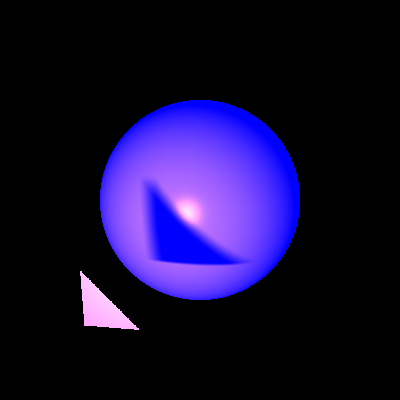
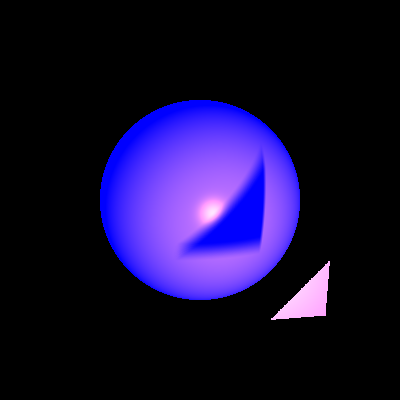
.

Changed region(s): [[0.24, 0.27, 0.75, 0.75], [0.66, 0.66, 0.84, 0.81], [0.18, 0.66, 0.36, 0.84]]

diff --git a/unitTests/renderer/Minip1.java b/unitTests/renderer/Minip1.java
@@ -313,12 +313,13 @@ public class Minip1 {
                 .writeToImage();
     }
 }
-*/
+
 
 
 package renderer;
 
 import geometries.*;
+import lighting.PointLight;
 import lighting.SpotLight;
 import org.junit.jupiter.api.Test;
 import primitives.*;
@@ -337,21 +338,47 @@ public class Minip1 {
         Material roofMaterial = new Material().setKd(0.7).setKs(0.1).setShininess(10);
         Material doorMaterial = new Material().setKd(0.3).setKs(0.2).setShininess(20);
 
-        // House base (as a box made of 4 walls)
-        Geometry wall1 = new Polygon(new Point(-50, -50, -20), new Point(50, -50, -20), new Point(50, -50, 0), new Point(-50, -50, 0))
+
+        Geometry wall1 = new Polygon(
+                new Point(-50, 0, 600), // Bottom-left
+                new Point(50, 0, 600),  // Bottom-right
+                new Point(50, 100, 600), // Top-right
+                new Point(-50, 100, 600) // Top-left
+        )
                 .setEmission(new Color(169, 169, 169)) // Light gray
                 .setMaterial(wallMaterial);
-        Geometry wall2 = new Polygon(new Point(-50, -50, 0), new Point(-50, 50, 0), new Point(-50, 50, -20), new Point(-50, -50, -20))
-                .setEmission(new Color(169, 169, 169))
-                .setMaterial(wallMaterial);
-        Geometry wall3 = new Polygon(new Point(-50, 50, 0), new Point(50, 50, 0), new Point(50, 50, -20), new Point(-50, 50, -20))
-                .setEmission(new Color(169, 169, 169))
-                .setMaterial(wallMaterial);
-        Geometry wall4 = new Polygon(new Point(50, -50, 0), new Point(50, 50, 0), new Point(50, 50, -20), new Point(50, -50, -20))
+
+        Geometry wall2 = new Polygon(
+                new Point(50, 0, 300),  // Bottom-left
+                new Point(50, 100, 300), // Top-left
+                new Point(50, 100, 600), // Top-right
+                new Point(50, 0, 600)   // Bottom-right
+        )
                 .setEmission(new Color(169, 169, 169))
                 .setMaterial(wallMaterial);
 
-        // Roof (as two triangles)
+
+        Geometry wall3 = new Polygon(
+                new Point(-50, 0, 300),  // Bottom-left
+                new Point(50, 0, 300),   // Bottom-right
+                new Point(50, 100, 300), // Top-right
+                new Point(-50, 100, 300) // Top-left
+        )
+                .setEmission(new Color(169, 169, 169))
+                .setMaterial(wallMaterial);
+
+        Geometry wall4 = new Polygon(
+                new Point(-50, 0, 300),  // Bottom-left
+                new Point(-50, 100, 300), // Top-left
+                new Point(-50, 100, 600), // Top-right
+                new Point(-50, 0, 600)   // Bottom-right
+        )
+                .setEmission(new Color(169, 169, 169))
+                .setMaterial(wallMaterial);
+
+
+        Sphere sp = new Sphere(20, new Point(0,0,400));
+/*        // Roof (as two triangles)
         Geometry roof1 = new Triangle(new Point(-55, -50, 0), new Point(55, -50, 0), new Point(0, -50, 30))
                 .setEmission(new Color(139, 69, 19)) // Brown
                 .setMaterial(roofMaterial);
@@ -363,29 +390,265 @@ public class Minip1 {
         Geometry door = new Polygon(new Point(-10, -50, -20), new Point(10, -50, -20), new Point(10, -50, -5), new Point(-10, -50, -5))
                 .setEmission(new Color(160, 82, 45)) // Sienna
                 .setMaterial(doorMaterial);
-
+*/
         // Add geometries to scene
-        houseScene.geometries.add(wall1, wall2, wall3, wall4, roof1, roof2, door);
+       // houseScene.geometries.add(wall1, wall2, wall3, wall4, roof1, roof2, door);
 
-        // Light sources
+/*
+        houseScene.geometries.add(wall1, wall2, wall3, wall4,sp);
         houseScene.lights.add(new SpotLight(new Color(WHITE), new Point(100, 100, 100), new Vector(-1, -1, -1), 9)
                 .setKl(0.0004).setKq(0.0002));
+        houseScene.lights.add(new PointLight(new Color(WHITE), new Point(0, 100, 500))
+                .setKl(0.0001).setKq(0.00005));
+        houseScene.setBackground(new Color(WHITE));
 
         // Camera settings - New position and direction to ensure all geometries are visible
         Camera.Builder camera = Camera.getBuilder()
-                .setDirection(new Vector(0, 0, 1), // vUp (pointing upward in the Z direction)
-                        new Vector(-1, -1, -1).normalize()) // vTo (pointing towards the house)
-                .setLocation(new Point(150, 150, 100)) // New camera position
-                .setVpDistance(500)
-                .setVpSize(300, 300)
+                .setDirection(
+                        new Vector(0, 1, 0),                 // vUp (Z direction, pointing straight up)
+                        new Vector(0, 0, 1)     // vTo (pointing straight towards the house along the Y-axis)
+                )
+                .setLocation(new Point(0, 50, 200))  // Camera position, in front of and above the house
+                .setVpDistance(40)
+                .setVpSize(200, 200)
                 .setRayTracer(new SimpleRayTracer(houseScene));
 
-        // Image writer and ray tracer
-        ImageWriter imageWriter = new ImageWriter("house_scene_ortho_vectors", 500, 500);
-        camera.setImageWriter(imageWriter);
+//        // Adjust the camera position to ensure the geometries are within the view
+//        camera.setLocation(new Point(0, -200, 200))  // Camera position closer to the scene
+//                .setVpDistance(100) // Reduce the distance for a closer view
+//                .setVpSize(200, 200); // Adjust the viewport size if necessary
 
-        camera.build()
+// Add more light sources or increase the current light's intensity
+
+
+        // Image writer and ray tracer
+        ImageWriter imageWriter = new ImageWriter("house_scene", 500, 500);
+        camera.setImageWriter(imageWriter)
+                .build()
                 .renderImage()
                 .writeToImage();
+
+
+    }
+
+}
+
+package renderer;
+import org.junit.jupiter.api.Test;
+
+import static java.awt.Color.*;
+
+import renderer.ImageWriter;
+import lighting.*;
+import geometries.*;
+import primitives.*;
+import renderer.*;
+import scene.Scene;
+
+import java.io.CharArrayWriter;
+
+public class Minip1 {
+    // private Scene scene = new Scene.SceneBuilder("Test scene").build();
+    @Test
+    public void ourPicture(){
+        Scene scene = new Scene("Test scene")//
+                .setBackground(new Color(51,0,0));
+
+        Point A=new Point(-165,170,-300);
+        Point B=new Point(-165,140,-300);
+        Point C=new Point(-135,140,-300);
+        Point D=new Point(-135,170,-300);
+        Point E=new Point(-165,170,-200);
+        Point F=new Point(-165,140,-200);
+        Point G=new Point(-135,140,-200);
+        Point H=new Point(-135,170,-200);
+        Point J=new Point(-105,140,-300);
+        Point K=new Point(-105,170,-300);
+        Point L=new Point(-105,140,-200);
+        Point M=new Point(-105,170,-200);
+        Point N=new Point(-165,110,-300);
+        Point O=new Point(-135,110,-300);
+        Point P=new Point(-165,110,-200);
+        Point Q=new Point(-135,110,-200);
+        Point R=new Point(-150,90,-250);
+        Point S=new Point(-90,155,-250);
+
+        //Scene scene = new Scene.SceneBuilder("Test scene").build();//
+//        Camera camera = new Camera(new Point(0, 0, 1000), new Vector(0,0,-1), new Vector(1,0,0))
+//                .setVPDistance(600).setVPSize(200, 200);
+
+        Camera.Builder camera = Camera.getBuilder().setLocation(new Point(0,0,1000))
+                .setDirection(new Vector(1,0,0), new Vector(0,0,-1))
+                .setVpDistance(600).setVpSize(200,200);
+        scene.geometries.add(
+//                new Polygon(A,B,C,D)
+//                        .setEmission(new Color(200,255,0))
+//                        .setMaterial(new Material().setKd(0.5).setKs(0.1).setKt(0).setKr(0).setShininess(20)),
+//                new Polygon(E,F,G,H)
+//                        .setEmission(new Color(200,255,0))
+//                        .setMaterial(new Material().setKd(0.5).setKs(0.1).setKt(0).setKr(0).setShininess(20)),
+//                new Polygon(A,D,H,E)
+//                        .setEmission(new Color(200,255,0))
+//                        .setMaterial(new Material().setKd(0.5).setKs(0.1).setKt(0).setKr(0).setShininess(20)),
+//                new Polygon(G,H,D,C)
+//                        .setEmission(new Color(200,255,0))
+//                        .setMaterial(new Material().setKd(0.5).setKs(0.1).setKt(0).setKr(0).setShininess(20)),
+//                new Polygon(G,F,B,C)
+//                        .setEmission(new Color(200,255,0))
+//                        .setMaterial(new Material().setKd(0.5).setKs(0.1).setKt(0).setKr(0).setShininess(20)),
+//                new Polygon(E,F,B,A)
+//                        .setEmission(new Color(200,255,0))
+//                        .setMaterial(new Material().setKd(0.5).setKs(1).setKt(0).setShininess(20)),
+//                new Polygon(L,M,K,J)
+//                        .setEmission(new Color(51,204,255))
+//                        .setMaterial(new Material().setKd(0.5).setKs(1).setKt(0.5).setShininess(20)),
+//                new Polygon(G,C,J,L)
+//                        .setEmission(new Color(51,204,255))
+//                        .setMaterial(new Material().setKd(0.5).setKs(1).setKt(0.5).setShininess(20)),
+//                new Polygon(M,H,D,K)
+//                        .setEmission(new Color(51,204,255))
+//                        .setMaterial(new Material().setKd(0.5).setKs(1).setKt(0.5).setShininess(20)),
+//                new Polygon(G,H,M,L)
+//                        .setEmission(new Color(51,204,255))
+//                        .setMaterial(new Material().setKd(0.5).setKs(1).setKt(0.5).setShininess(20)),
+//                new Polygon(C,D,K,J)
+//                        .setEmission(new Color(51,204,255))
+//                        .setMaterial(new Material().setKd(0.5).setKs(1).setKt(0.5).setShininess(20)),
+//                new Polygon(N,O,Q,P)
+//                        .setEmission(new Color(51,204,255))
+//                        .setMaterial(new Material().setKd(0.5).setKs(1).setKt(0.5).setShininess(20)),
+//                new Polygon(Q,G,C,O)
+//                        .setEmission(new Color(51,204,255))
+//                        .setMaterial(new Material().setKd(0.5).setKs(1).setKt(0.5).setShininess(20)),
+//                new Polygon(P,F,B,N)
+//                        .setEmission(new Color(51,204,255))
+//                        .setMaterial(new Material().setKd(0.5).setKs(1).setKt(0.5).setShininess(20)),
+//                new Polygon(N,B,C,O)
+//                        .setEmission(new Color(51,204,255))
+//                        .setMaterial(new Material().setKd(0.5).setKs(1).setKt(0.5).setShininess(20)),
+//                new Polygon(P,F,G,Q)
+//                        .setEmission(new Color(51,204,255))
+//                        .setMaterial(new Material().setKd(0.5).setKs(1).setKt(0.5).setShininess(20)),
+//                new Triangle(Q,O,R)
+//                        .setEmission(new Color(51,204,255))
+//                        .setMaterial(new Material().setKd(0.5).setKs(1).setKt(0.5).setShininess(20)),
+//                new Triangle(N,O,R)
+//                        .setEmission(new Color(51,204,255))
+//                        .setMaterial(new Material().setKd(0.5).setKs(1).setKt(0.5).setShininess(20)),
+//                new Triangle(N,P,R)
+//                        .setEmission(new Color(51,204,255))
+//                        .setMaterial(new Material().setKd(0.5).setKs(1).setKt(0.5).setShininess(20)),
+//                new Triangle(P,Q,R)
+//                        .setEmission(new Color(51,204,255))
+//                        .setMaterial(new Material().setKd(0.5).setKs(1).setKt(0.5).setShininess(20)),
+//                new Triangle(M,L,S)
+//                        .setEmission(new Color(51,204,255))
+//                        .setMaterial(new Material().setKd(0.5).setKs(1).setKt(0.5).setShininess(20)),
+//                new Triangle(M,K,S)
+//                        .setEmission(new Color(51,204,255))
+//                        .setMaterial(new Material().setKd(0.5).setKs(1).setKt(0.5).setShininess(20)),
+//                new Triangle(K,J,S)
+//                        .setEmission(new Color(51,204,255))
+//                        .setMaterial(new Material().setKd(0.5).setKs(1).setKt(0.5).setShininess(20)),
+//                new Triangle(L,J,K)
+//                        .setEmission(new Color(51,204,255))
+//                        .setMaterial(new Material().setKd(0.5).setKs(1).setKt(0.5).setShininess(20)),
+                new Sphere(20,new Point(90, 130, -300)).setEmission(new Color(ORANGE))   //light
+                        .setMaterial(new Material().setKd(0.5).setKs(0.8).setKt(1)),
+                new Triangle(new Point(94,130,-300),new Point(300,130,-300),new Point(300,130,-250))
+                        .setEmission(new Color(102,0,153)),
+                new Triangle(new Point(-105,200,700),new Point(-105,5,700),new Point(-105,5,-2500))
+                        .setEmission(new Color(102,0,153))
+                        .setMaterial(new Material().setKd(0.5).setKs(0.5).setKt(0.1).setKr(0.1).setShininess(20)),
+                new Plane(new Point(-1000,28,0),new Point(90,5,0),new Point(-105,33,-2034))
+                        .setEmission(new Color(GRAY))
+                        .setMaterial(new Material().setKd(0.5).setKs(0.5).setKt(0.25))
+        );
+
+
+        scene.lights.add(
+                new PointLight(new Color(255,255,153), new Point(90, 150, -300)) //
+                        .setKl(0.00001).setKq(0.000005)
+        );
+
+        scene.lights.add(
+                new SpotLight(new Color(255,204,0), new Point(90,150,-300), new Vector(15, 12, -19)) //
+                        .setKl(0.00001).setKq(0.000005)
+        );
+
+
+        ImageWriter imagewriter=new ImageWriter("ourPicture2",500,500);
+        camera.setImageWriter(imagewriter)
+                .setRayTracer(new SimpleRayTracer(scene))
+                .build()
+                .renderImage()
+                .writeToImage();
+
+    }
+}
+*/
+
+package renderer;
+import org.junit.jupiter.api.Test;
+
+import static java.awt.Color.*;
+
+import renderer.ImageWriter;
+import lighting.*;
+import geometries.*;
+import primitives.*;
+import renderer.*;
+import scene.Scene;
+
+import java.io.CharArrayWriter;
+
+public class Minip1 {
+    // private Scene scene = new Scene.SceneBuilder("Test scene").build();
+    @Test
+    public void ourPicture() {
+        Scene scene = new Scene("Test scene")//
+                .setBackground(new Color(PINK));
+
+
+        scene.geometries.add(
+                 new Plane(new Point(0, -200, 0), new Point(1, -200, 0), new Point(0, -200, 1))
+                        .setEmission(new Color(240, 220, 200)),
+                new Plane(new Point(0, -180, 0), new Point(1, -180, 0), new Point(0, -180, 1))
+                        .setEmission(new Color(100, 200, 300)).setMaterial(new Material().setKd(0.3).setKs(0.8).setShininess(30)),
+                //new Plane(new Point(1,0,2),new Point(-3,0,5),new Point(0,0,-4)).setEmission(new Color(240,220,200)),
+                new Sphere(15,new Point(5,-100,500)).setEmission(new Color(200,200,200)).setMaterial(new Material().setKd(0.5).setKs(0.8).setShininess(30)), //gray
+                new Sphere(60,new Point(5,-110,200)).setEmission(new Color(0,30,200))  .setMaterial(new Material().setKd(0.5).setKs(0.5).setShininess(30)),//blue
+                new Sphere(60,new Point(150,-100,200)).setEmission(new Color(300,0,200)) .setMaterial(new Material().setKd(0.5).setKs(0.7).setShininess(30)),//pink
+                new Sphere(60,new Point(40,-100,200)).setEmission(new Color(200,0,30)) .setMaterial(new Material().setKd(0.5).setKs(0.8).setShininess(30)),//red
+                new Sphere(12,new Point(30,-100,600)).setEmission(new Color(100,12,200)).setMaterial(new Material().setKd(0.5).setKs(0.5).setShininess(30)));//purple
+
+        scene.geometries.add(new Sphere(10, new Point(30,-190,50)).
+                setEmission(new Color(0,30,200))
+                .setMaterial(new Material().setKd(0.5).setKs(0.5).setShininess(30)));
+        //
+
+        scene.lights.add(
+                new DirectionalLight(new Color(200,300,50),new Vector(1,1,-1))); // from the top
+        scene.lights.add(new SpotLight(new Color(400, 240, 0),new Point(100,1000,500),new Vector(-30,-30,0),20).setKl(1E-5).setKq(1.5E-7));
+
+        scene.lights.add(
+                new SpotLight(new Color(400, 240, 0),new Point(40,50,200),new Vector(0,-1,0),20)
+                .setKl(1E-5).setKq(1.5E-7));
+
+        // Updated Camera setup
+        Camera.Builder camera = Camera.getBuilder()
+                .setLocation(new Point(0, 0, 1000))  // Position the camera further back
+                .setDirection(new Vector(0, 1, 0).normalize(), new Vector(0, 0, -1))  // Pointing towards the scene with correct up vector
+                .setVpDistance(300)  // Adjusted to capture a larger view
+                .setVpSize(200, 200);  // Increased size for a broader view
+
+        ImageWriter imagewriter=new ImageWriter("Spheres4",500,500);
+        camera.setImageWriter(imagewriter)
+                .setRayTracer(new SimpleRayTracer(scene))
+                .build()
+                .renderImage()
+                .writeToImage();
+
+
     }
 }
